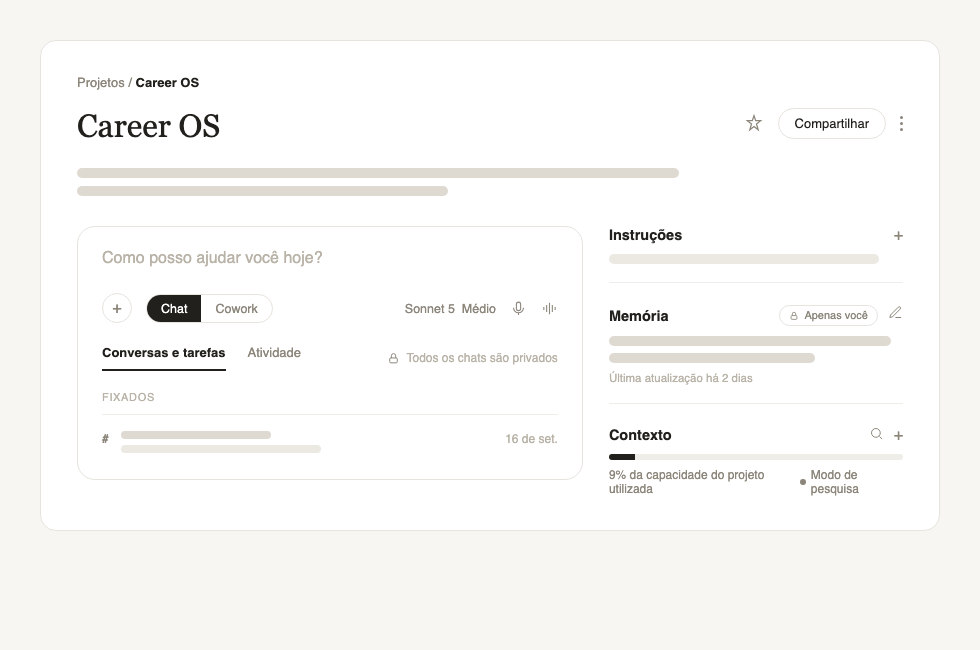
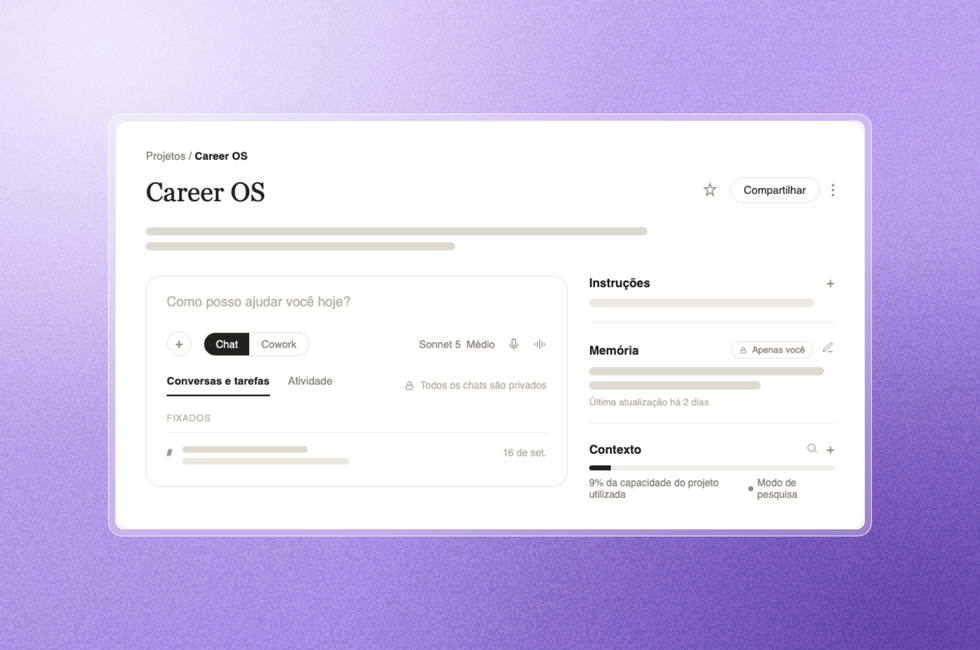
Career OS: capa com fundo lilás no estilo dos outros cards

diff --git a/portfolio-sara-cerutti/experiments/index.html b/portfolio-sara-cerutti/experiments/index.html
@@ -57,7 +57,7 @@
 
     <section class="v2-block">
       <a class="v2-feature" href="../work/career-os/">
-        <img class="v2-media" src="../work/career-os/images/cover-ui.png" alt="" data-i18n-alt="coverAlt" />
+        <img class="v2-media" src="../work/career-os/images/cover-ui.webp" alt="" data-i18n-alt="coverAlt" />
         <div>
           <span class="status-tag" data-i18n="status">In use</span>
           <h2 data-i18n="cardTitle">Career OS</h2>

diff --git a/portfolio-sara-cerutti/work/career-os/index.html b/portfolio-sara-cerutti/work/career-os/index.html
@@ -70,7 +70,7 @@
     </section>
 
     <div class="v2-cover-stick">
-      <img class="v2-media" src="images/cover-ui.png" alt="" data-i18n-alt="coverAlt" />
+      <img class="v2-media" src="images/cover-ui.webp" alt="" data-i18n-alt="coverAlt" />
     </div>
 
     <div class="v2-sheet">
